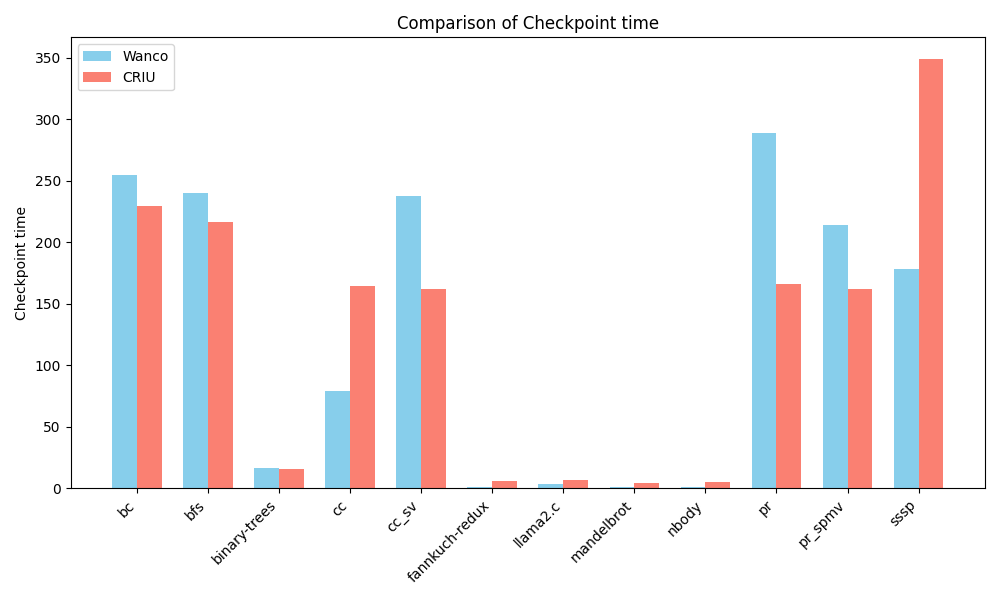
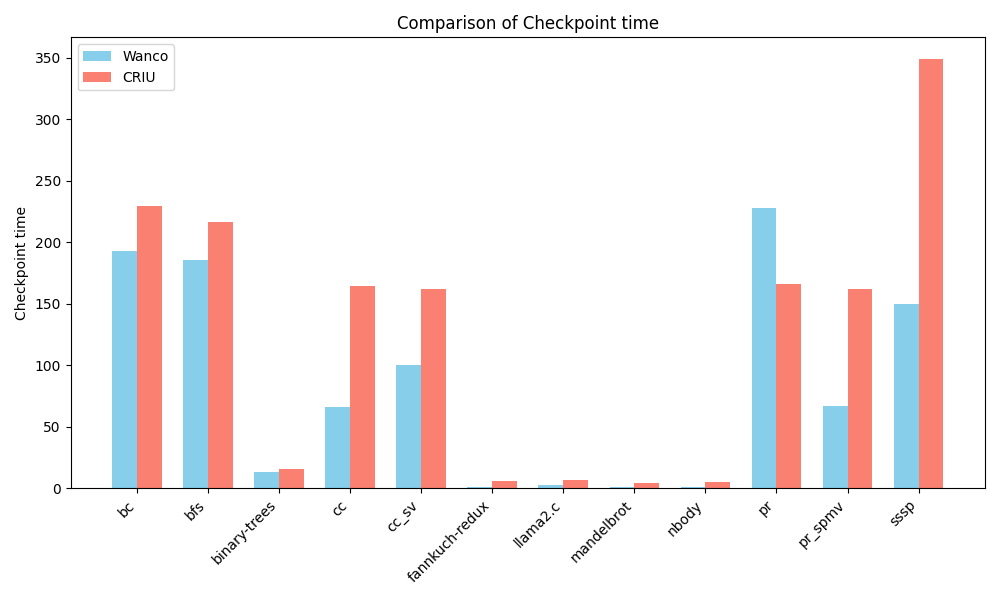
parallelize memcpy

diff --git a/lib-rt/wanco.h b/lib-rt/wanco.h
@@ -1,6 +1,9 @@
 #pragma once
 #include <cstdint>
+#include <cstring>
 #include <iostream>
+#include <thread>
+#include <vector>
 
 #define ASSERT(condition)                                                      \
   do {                                                                         \
@@ -14,6 +17,7 @@
 namespace wanco {
 constexpr bool USE_LZ4 = false;
 constexpr bool DEBUG_ENABLED = false;
+constexpr int NUM_THREADS = 28;
 
 extern uint64_t CHKPT_START_TIME;
 extern uint64_t RESTORE_START_TIME;
@@ -75,7 +79,23 @@ private:
   std::ostream &out = std::cerr;
 };
 
-namespace wanco {
-// wrt.cc
-int8_t *allocate_memory(int32_t num_pages);
-} // namespace wanco
+inline void parallel_memcpy(void *dst, const void *src, size_t size,
+                            int num_threads) {
+  std::vector<std::thread> threads;
+  size_t chunk_size = size / num_threads;
+
+  for (int i = 0; i < num_threads; ++i) {
+    size_t offset = i * chunk_size;
+    size_t current_chunk_size =
+        (i == num_threads - 1) ? (size - offset) : chunk_size;
+
+    threads.emplace_back([=]() {
+      std::memcpy(static_cast<char *>(dst) + offset,
+                  static_cast<const char *>(src) + offset, current_chunk_size);
+    });
+  }
+
+  for (auto &t : threads) {
+    t.join();
+  }
+}

diff --git a/lib-rt/chkpt/chkpt_protobuf.cc b/lib-rt/chkpt/chkpt_protobuf.cc
@@ -1,10 +1,10 @@
+#include "aot.h"
 #include "chkpt.h"
 #include "chkpt.pb.h"
 #include "lz4/lz4.h"
 #include "wanco.h"
 #include <fstream>
 #include <google/protobuf/util/json_util.h>
-
 namespace wanco {
 
 static wanco::Value decode_value_proto(const chkpt::Value &v) {
@@ -91,7 +91,9 @@ decode_checkpoint_proto(std::ifstream &f) {
     ASSERT(buf.memory().size() == (std::size_t)ret.memory_size * PAGE_SIZE);
     Info() << "Copying memory: " << std::dec << ret.memory_size << " pages ("
            << buf.memory().size() << " bytes)" << std::endl;
-    memcpy(memory_base, buf.memory().data(), buf.memory().size());
+
+    parallel_memcpy(memory_base, buf.memory().data(), buf.memory().size(),
+                    NUM_THREADS);
   }
 
   return {ret, memory_base};

diff --git a/lib-rt/aot.h b/lib-rt/aot.h
@@ -38,3 +38,8 @@ namespace wanco {
 extern "C" Checkpoint chkpt;
 extern "C" stackmap::Stackmap g_stackmap;
 } // namespace wanco
+
+namespace wanco {
+// wrt.cc
+int8_t *allocate_memory(int32_t num_pages);
+} // namespace wanco
